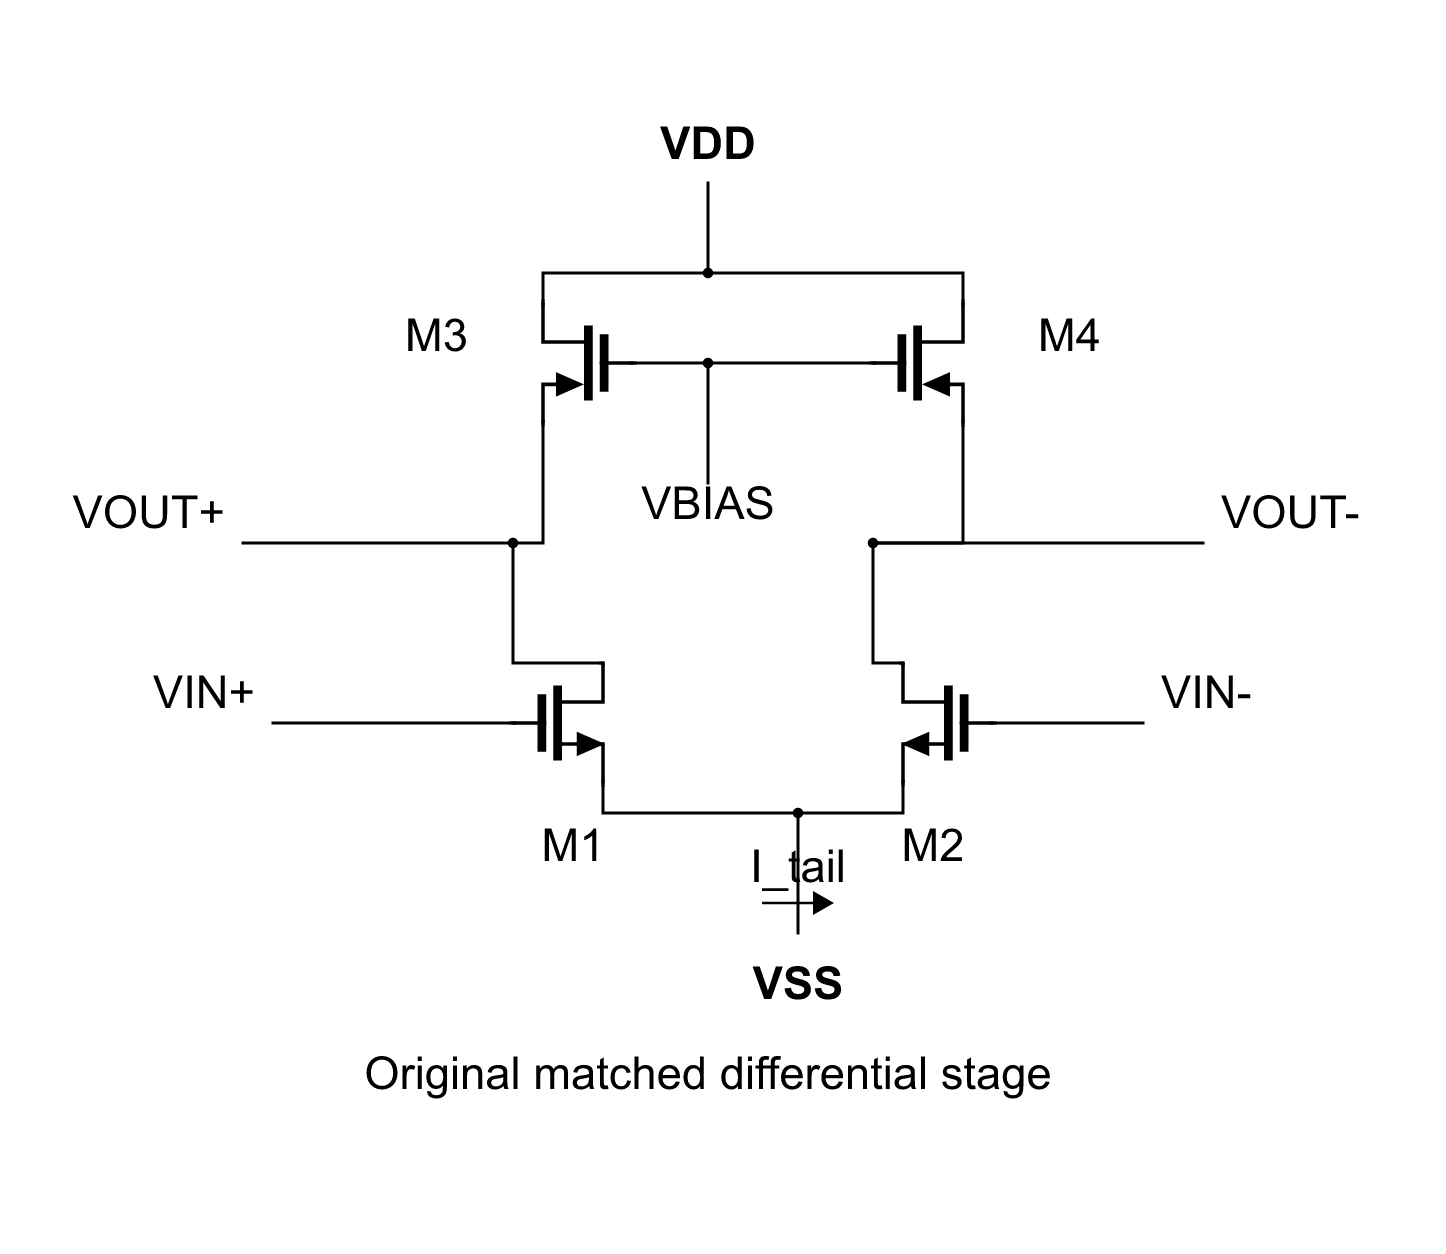
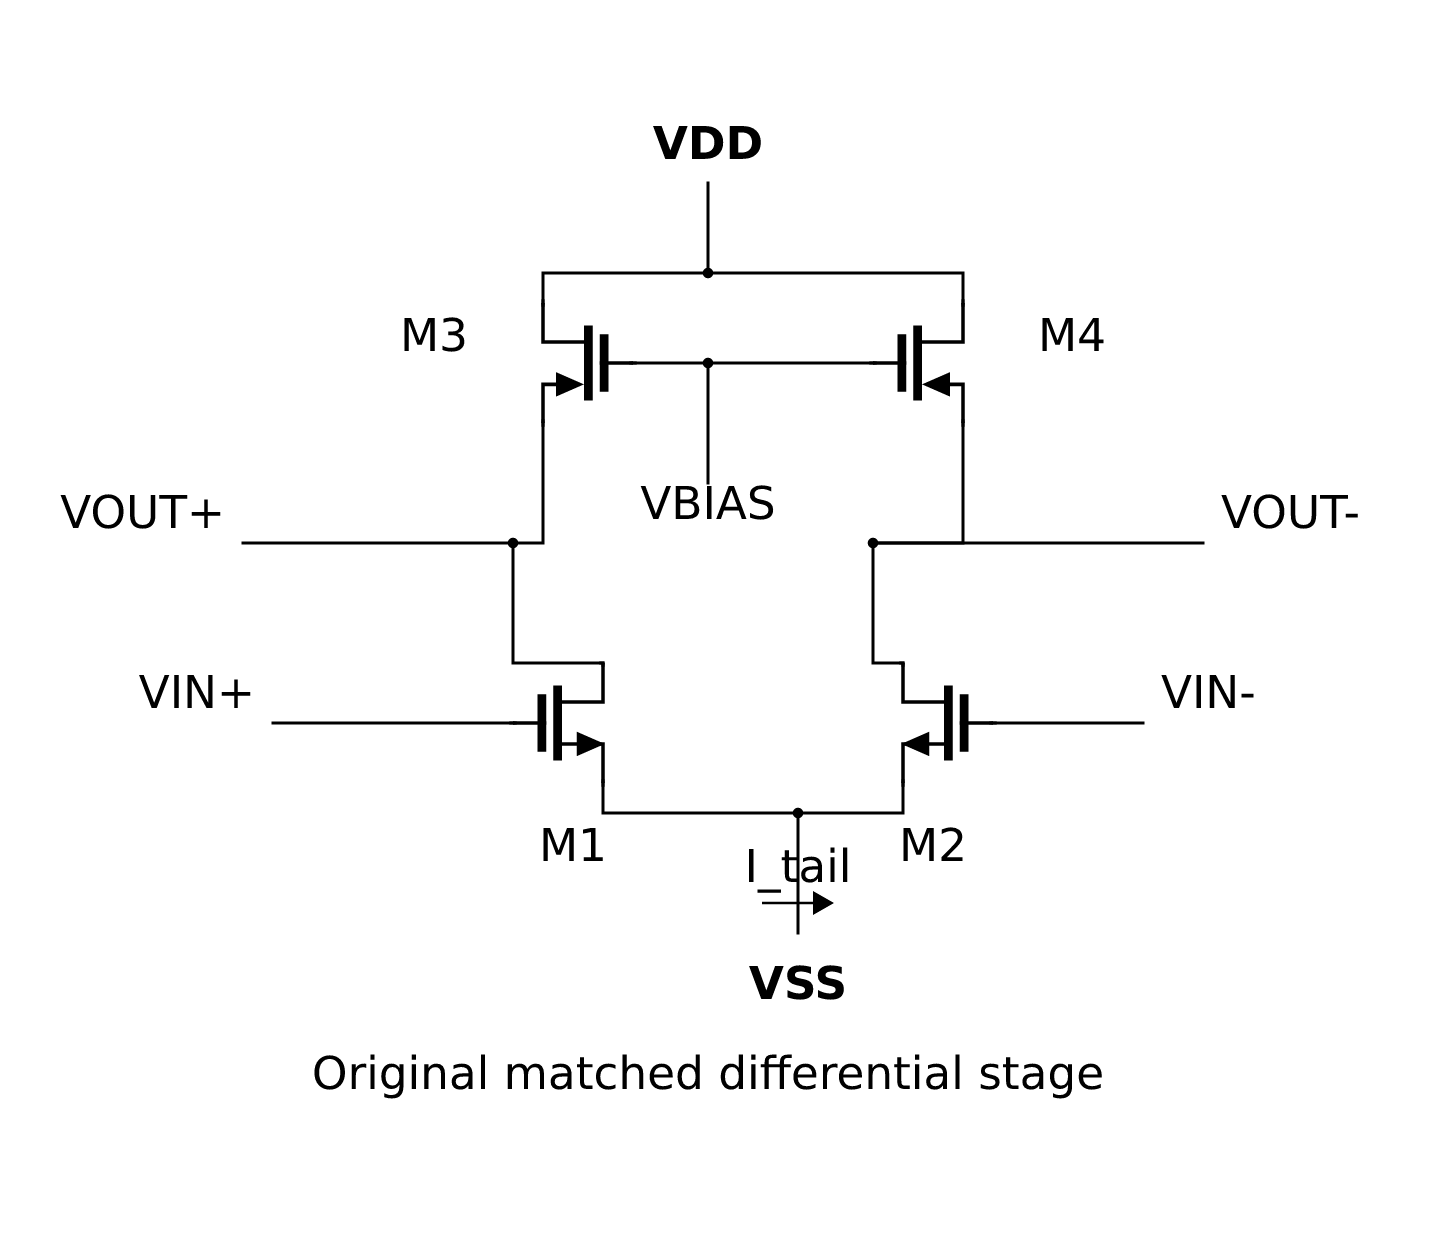
test(ci): synchronize checks with accepted behavior

diff --git a/packages/render-svg/src/default-instance-label-placement.test.ts b/packages/render-svg/src/default-instance-label-placement.test.ts
@@ -38,21 +38,21 @@ describe("semantic default instance-label placement", () => {
       alignment: "start",
     });
     expect(placed("voltage-source")).toMatchObject({
-      position: { x: 117, y: 105 },
+      position: { x: 113, y: 105 },
       alignment: "start",
     });
   });
 
   it("moves a rotated passive side label with the symbol", () => {
     expect(placed("capacitor", 90)).toMatchObject({
-      position: { x: 95, y: 114 },
+      position: { x: 95, y: 125 },
       alignment: "middle",
     });
   });
 
   it("places Port text on the endpoint's reverse extension", () => {
     expect(placed("port")).toMatchObject({
-      position: { x: 85, y: 105 },
+      position: { x: 88, y: 105 },
       alignment: "end",
     });
   });
@@ -63,20 +63,20 @@ describe("semantic default instance-label placement", () => {
       alignment: "start",
     });
     expect(placed("nmos", 0, "none", "textbook-3terminal")).toMatchObject({
-      position: { x: 116, y: 108 },
+      position: { x: 113, y: 108 },
       alignment: "start",
     });
   });
 
   it("uses visible glyph edges for vertical MOS orientations", () => {
     expect(placed("nmos", 90, "none", "textbook-3terminal")).toMatchObject({
-      position: { x: 92, y: 132 },
-      semanticPosition: { x: 92, y: 116 },
+      position: { x: 92, y: 129 },
+      semanticPosition: { x: 92, y: 113 },
       alignment: "middle",
     });
     expect(placed("nmos", 270, "none", "textbook-3terminal")).toMatchObject({
-      position: { x: 108, y: 79 },
-      semanticPosition: { x: 108, y: 84 },
+      position: { x: 108, y: 82 },
+      semanticPosition: { x: 108, y: 87 },
       alignment: "middle",
     });
   });

diff --git a/packages/symbols/src/razavi-catalog.test.ts b/packages/symbols/src/razavi-catalog.test.ts
@@ -513,16 +513,16 @@ describe("Razavi symbol catalog", () => {
     };
     const npnArrow = arrowPoints(npn);
     const pnpArrow = arrowPoints(pnp);
-    const squaredDistancesFromTip = (
-      points: typeof npnArrow,
-    ) =>
+    const squaredDistancesFromTip = (points: typeof npnArrow) =>
       points
         .slice(0, -1)
         .map((point) => {
           const tip = points.at(-1)!;
-          return Math.round(
-            ((point.x - tip.x) ** 2 + (point.y - tip.y) ** 2) * 1_000_000,
-          ) / 1_000_000;
+          return (
+            Math.round(
+              ((point.x - tip.x) ** 2 + (point.y - tip.y) ** 2) * 1_000_000,
+            ) / 1_000_000
+          );
         })
         .sort((left, right) => left - right);
     expect(squaredDistancesFromTip(pnpArrow)).toEqual(
@@ -611,7 +611,12 @@ describe("Razavi symbol catalog", () => {
         primitive.to.x === 6.405579 &&
         primitive.to.y === -12.806695,
     );
-    if (!idealPivot || idealPivot.kind !== "circle" || !idealBlade || idealBlade.kind !== "line") {
+    if (
+      !idealPivot ||
+      idealPivot.kind !== "circle" ||
+      !idealBlade ||
+      idealBlade.kind !== "line"
+    ) {
       throw new Error("missing ideal-switch pivot or blade");
     }
     expect(

diff --git a/packages/exporters/src/node.ts b/packages/exporters/src/node.ts
@@ -11,6 +11,10 @@ const BUNDLED_FONT_PACKAGE = fileURLToPath(
 );
 const BUNDLED_FONT_DIRECTORY = resolve(dirname(BUNDLED_FONT_PACKAGE), "ttf");
 const BUNDLED_FONTS = [
+  "DejaVuSans.ttf",
+  "DejaVuSans-Bold.ttf",
+  "DejaVuSans-Oblique.ttf",
+  "DejaVuSans-BoldOblique.ttf",
   "DejaVuSerif.ttf",
   "DejaVuSerif-Bold.ttf",
   "DejaVuSerif-Italic.ttf",
@@ -27,9 +31,12 @@ function resvg(svg: string, fitTo: { mode: "zoom" | "width"; value: number }) {
   return new Resvg(svg, {
     fitTo,
     font: {
-      loadSystemFonts: true,
+      // Formal export goldens must not depend on whichever fonts happen to be
+      // installed on the developer machine or GitHub runner.
+      loadSystemFonts: false,
       fontFiles: BUNDLED_FONTS,
-      defaultFontFamily: "DejaVu Serif",
+      defaultFontFamily: "DejaVu Sans",
+      sansSerifFamily: "DejaVu Sans",
       serifFamily: "DejaVu Serif",
     },
   }).render();

diff --git a/packages/derived/src/instance-label-placement.ts b/packages/derived/src/instance-label-placement.ts
@@ -30,9 +30,7 @@ export function isMosSymbol(resolved: ResolvedSymbol): boolean {
 
 export function isBjtSymbol(resolved: ResolvedSymbol): boolean {
   const roles = new Set(resolved.definition.pins.map((pin) => pin.role));
-  return (
-    roles.has("base") && roles.has("collector") && roles.has("emitter")
-  );
+  return roles.has("base") && roles.has("collector") && roles.has("emitter");
 }
 
 function transformedBounds(

diff --git a/packages/derived/src/connectivity.ts b/packages/derived/src/connectivity.ts
@@ -168,8 +168,7 @@ function flightlineNodePriority(
     (route) =>
       (route.from.kind === "junction" &&
         route.from.junctionId === junctionId) ||
-      (route.to.kind === "junction" &&
-        route.to.junctionId === junctionId),
+      (route.to.kind === "junction" && route.to.junctionId === junctionId),
   ).length;
   return junction?.role === "route-anchor" && degree <= 1 ? 0 : 2;
 }

diff --git a/packages/symbols/src/builtins.test.ts b/packages/symbols/src/builtins.test.ts
@@ -8,6 +8,7 @@ import { SYMBOL_CONNECTION_GRID, SymbolDefinitionSchema } from "./schema.js";
 
 const PRODUCT_IDS = [
   "capacitor",
+  "closed-switch",
   "current-source",
   "diode",
   "ground",
